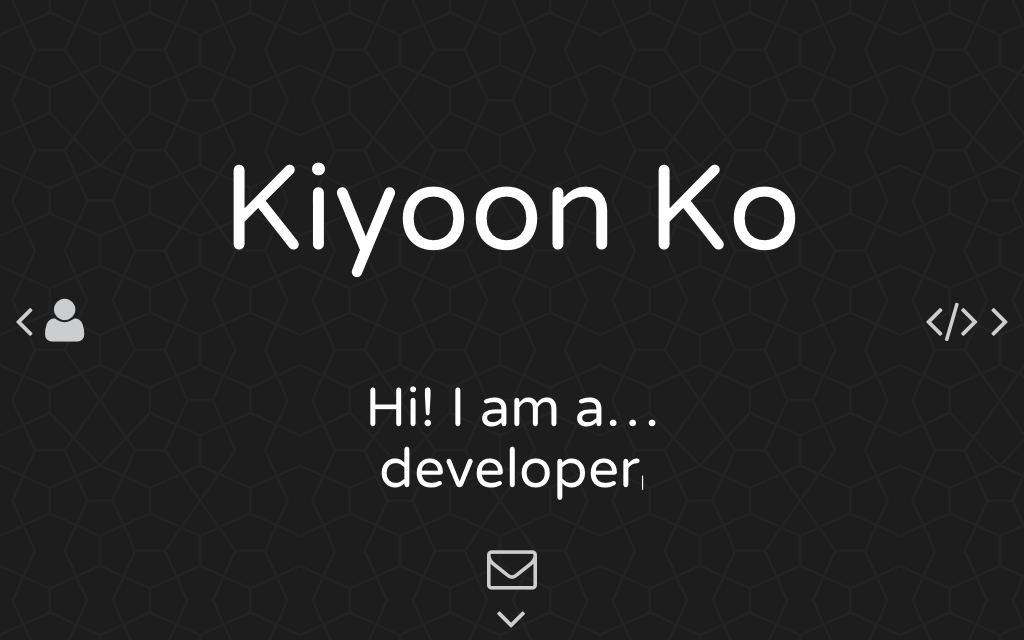
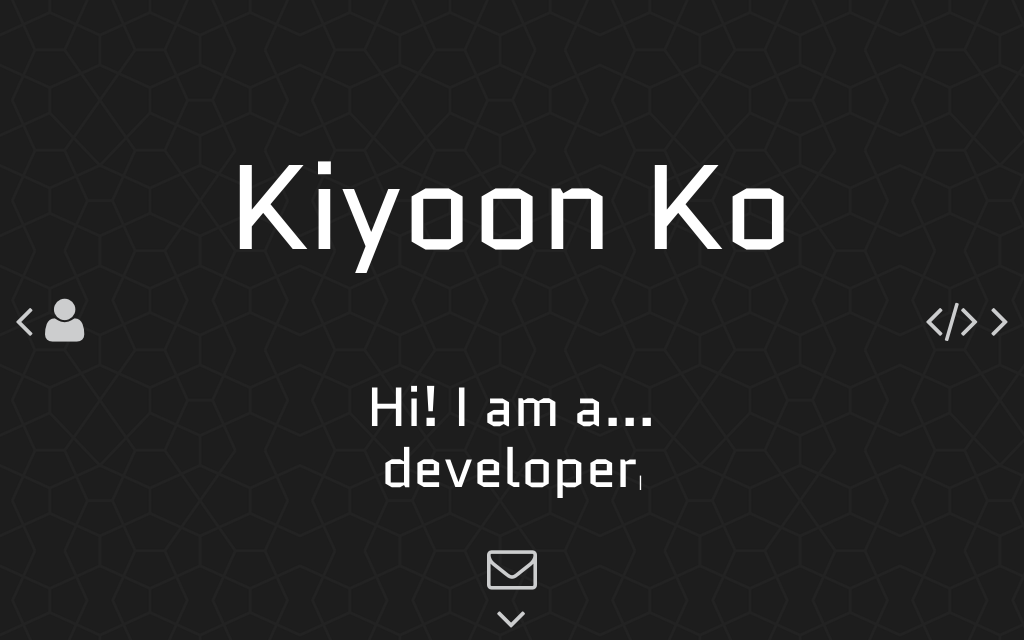
updated font

diff --git a/css/bootstrap.css b/css/bootstrap.css
@@ -14,9 +14,9 @@
  * Licensed under MIT (https://github.com/twbs/bootstrap/blob/master/LICENSE)
  */
 /*! normalize.css v3.0.3 | MIT License | github.com/necolas/normalize.css */
-@import url('https://fonts.googleapis.com/css?family=Varela Round');
+@import url('https://fonts.googleapis.com/css?family=Quantico');
 html {
-  font-family: 'Varela Round', sans-serif;
+  font-family: 'Quantico', sans-serif;
   -ms-text-size-adjust: 100%;
   -webkit-text-size-adjust: 100%;
 }
@@ -40,7 +40,7 @@ header .intro-text .intro-lead-in {
 /* Kiyoon Ko: */
   margin-top: 17vh;
   margin-bottom: 2vh;
-  font-family: Varela Round;
+  font-family: Quantico;
   font-size: 120px;
   color: #ffffff;
 }
@@ -48,7 +48,7 @@ header .intro-text .intro-lead-in {
 header .intro-text .intro-heading {
     margin-bottom: 0px;
 /* Hi! I am a…: */
-font-family: Varela Round;
+font-family: Quantico;
 font-size: 55px;
 color: #ffffff;
   text-align: center;
@@ -58,7 +58,7 @@ header .intro-text .intro-text {
     margin-bottom: 2vh;
 /* Hi! I am a…: */
 /* <Animated Text>: */
-font-family: Varela Round;
+font-family: Quantico;
 font-size: 55px;
 color: #ffffff;
   text-align: center;
@@ -66,14 +66,14 @@ color: #ffffff;
 
 .slogan{
   /* Hi! I’m Yoon!: */
-font-family: Varela Round;
+font-family: Quantico;
 font-size: 77px;
 color: #62E1FA;
 }
 
 .aboutText{
   /* Lorem ipsum dolor si: */
-font-family: Varela Round;
+font-family: Quantico;
 font-size: 20px;
 color: #ffffff;
 }
@@ -84,9 +84,9 @@ color: #ffffff;
 }
 
 .portfolioText{
-  font-family: Varela Round;
+  font-family: Quantico;
   font-size: 30px;
-  color: #DDF9FF;
+  color: #ffffff;
   text-align: center; 
   margin-top:5vh; 
 }
@@ -7197,7 +7197,7 @@ button.close {
 
 div.about{
   /* Lorem ipsum dolor si: */
-font-family: Varela Round;
+font-family: Quantico;
 font-size: 20px;
 color: #ffffff;
 }
@@ -7304,17 +7304,17 @@ color: #ffffff;
 
 .contactOpen{
   /* Thanks for your visi: */
-font-family: Varela Round;
+font-family: Quantico;
 font-size: 80px;
-color: #B6F3FF;
+color: #ffffff;
 text-align: center;
 }
 
 .contactSub{
   /* If you wish to get i: */
-font-family: Varela Round;
+font-family: Quantico;
 font-size: 35px;
-color: #B6F3FF;
+color: #ffffff;
 text-align: center;
 }
 
@@ -7330,7 +7330,7 @@ text-align: center;
 
 .contactInfo{
   /* kiyoonko@gmail.com: */
-font-family: Varela Round;
+font-family: Quantico;
 font-size: 33 px;
 color: #1995AD;
 }
@@ -7467,13 +7467,13 @@ margin-right:11px;
 
 .formIntro{
   /* Send a Message:: */
-  font-family: Varela Round;
+  font-family: Quantico;
   color: #1995AD;
 }
 
 .formHeading{
   /* Name:: */
-font-family: Varela Round;
+font-family: Quantico;
 color: #1995AD;
 }
 
